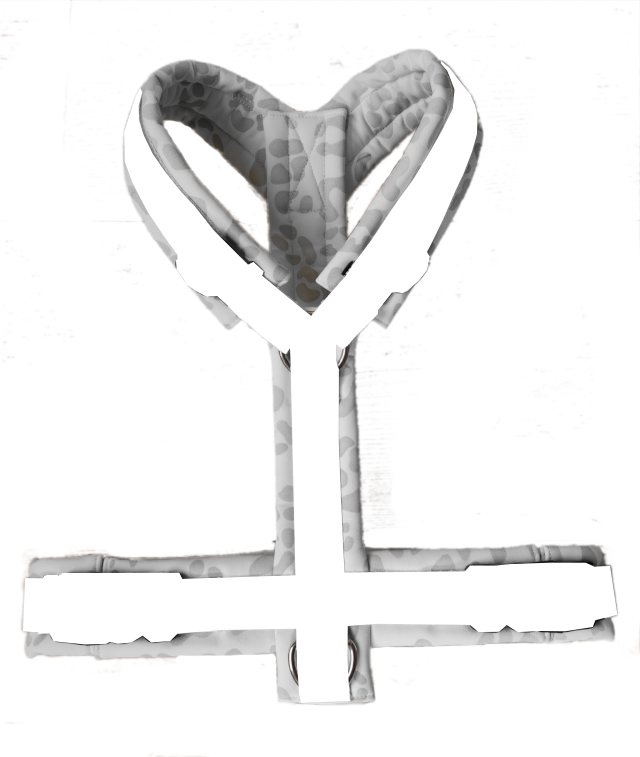
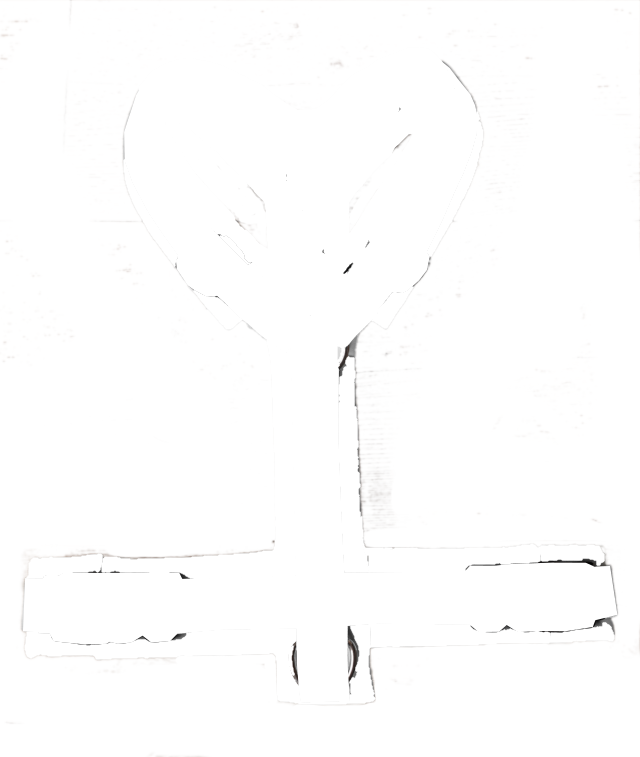
first draft of new colors

diff --git a/src/app/app.component.ts b/src/app/app.component.ts
@@ -20,155 +20,10 @@ export class AppComponent {
     this.config.imageLink2 = image[0];
     this.pickedColor = image[1];
   }
+  colors2: [string, string][] = ['christmas-2', 'christmas', 'clouds', 'knots', "knots2","knots3","knots4",  'mosaik', 'mosaik2', 'snowflakes', 'stars'].map(s => [`/assets/colors2/${s}.PNG`, s])
   URLSoftShell: [string, string][] = [
-    [
-      'https://image.jimcdn.com/app/cms/image/transf/dimension=1920x400:format=jpg/path/sdd37b24955066016/image/iddb1bee841bd3645/version/1727506261/image.jpg',
-      'Neon Grün',
-    ],
-    [
-      'https://image.jimcdn.com/app/cms/image/transf/dimension=1920x400:format=jpg/path/sdd37b24955066016/image/i905903e93db72608/version/1741674999/image.jpg',
-      'Neon Pink',
-    ],
-    [
-      'https://image.jimcdn.com/app/cms/image/transf/dimension=1920x400:format=jpg/path/sdd37b24955066016/image/i254d6489e9f1006f/version/1741674999/image.jpg',
-      'Leo reflektierend Schwarz',
-    ],
-    [
-      'https://image.jimcdn.com/app/cms/image/transf/dimension=1920x400:format=jpg/path/sdd37b24955066016/image/icb84a24cbb695b43/version/1741674999/image.jpg',
-      'Leo reflektierend neon Gelb',
-    ],
-    [
-      'https://image.jimcdn.com/app/cms/image/transf/dimension=1920x400:format=jpg/path/sdd37b24955066016/image/i1f731c614db29f29/version/1741674999/image.jpg',
-      'Leo reflektierend neon orange',
-    ],
-    [
-      'https://image.jimcdn.com/app/cms/image/transf/dimension=1920x400:format=jpg/path/sdd37b24955066016/image/i64cd10887771a7d6/version/1741674999/image.jpg',
-      'Leo reflektierend neon Pink',
-    ],
-    [
-      'https://image.jimcdn.com/app/cms/image/transf/dimension=1920x400:format=jpg/path/sdd37b24955066016/image/i43acd960620eb922/version/1741675021/image.jpg',
-      'Schneehimmel',
-    ],
-    [
-      'https://image.jimcdn.com/app/cms/image/transf/dimension=1920x400:format=jpg/path/sdd37b24955066016/image/i4201d1447f638724/version/1741675021/image.jpg',
-      'Blumen Hexagon',
-    ],
-    [
-      'https://image.jimcdn.com/app/cms/image/transf/dimension=1920x400:format=jpg/path/sdd37b24955066016/image/i2e25e0a40df215b1/version/1741675021/image.jpg',
-      'Blumenmotiv rot',
-    ],
-    [
-      'https://image.jimcdn.com/app/cms/image/transf/dimension=1920x400:format=jpg/path/sdd37b24955066016/image/i9c9b5f76f29aa50c/version/1741675021/image.jpg',
-      'Eisige Garten',
-    ],
-    [
-      'https://image.jimcdn.com/app/cms/image/transf/dimension=1920x400:format=jpg/path/sdd37b24955066016/image/i063018a905308263/version/1741675021/image.jpg',
-      'Alcohol Pastell-Kolibri',
-    ],
-    [
-      'https://image.jimcdn.com/app/cms/image/transf/dimension=1920x400:format=jpg/path/sdd37b24955066016/image/if11bb4cd96348f3a/version/1741675021/image.jpg',
-      'Kleckse Grün',
-    ],
-    [
-      'https://image.jimcdn.com/app/cms/image/transf/dimension=1920x400:format=jpg/path/sdd37b24955066016/image/i32a9fb5e0cddf68a/version/1741675021/image.jpg',
-      'Magnolien Rosa',
-    ],
-    [
-      'https://image.jimcdn.com/app/cms/image/transf/dimension=1920x400:format=jpg/path/sdd37b24955066016/image/i28e236dd4d2788a6/version/1741675021/image.jpg',
-      'Very Pery Glitter',
-    ],
-    [
-      'https://image.jimcdn.com/app/cms/image/transf/dimension=1920x400:format=jpg/path/sdd37b24955066016/image/i45f09f6d32541e0a/version/1741675021/image.jpg',
-      'Nachgarten nave',
-    ],
-    [
-      'https://image.jimcdn.com/app/cms/image/transf/dimension=1920x400:format=jpg/path/sdd37b24955066016/image/i9bdfafd78024f008/version/1741675021/image.jpg',
-      'Pfoten pink',
-    ],
-    [
-      'https://image.jimcdn.com/app/cms/image/transf/dimension=1920x400:format=jpg/path/sdd37b24955066016/image/i8b7c459beb43b329/version/1741675021/image.jpg',
-      'Morocco Pink',
-    ],
-    [
-      'https://image.jimcdn.com/app/cms/image/transf/dimension=1920x400:format=jpg/path/sdd37b24955066016/image/idf0dc5ca3199459d/version/1741675011/image.jpg',
-      'Comic blau-rot',
-    ],
-    [
-      'https://image.jimcdn.com/app/cms/image/transf/dimension=1920x400:format=jpg/path/sdd37b24955066016/image/i84564f281f423de1/version/1741675011/image.jpg',
-      'Gold-schwarze Kolibri',
-    ],
-    [
-      'https://image.jimcdn.com/app/cms/image/transf/dimension=1920x400:format=jpg/path/sdd37b24955066016/image/i7b05a8ba3be68970/version/1741675011/image.jpg',
-      'Gold-schwarze Schmetterlinge',
-    ],
-    [
-      'https://image.jimcdn.com/app/cms/image/transf/dimension=1920x400:format=jpg/path/sdd37b24955066016/image/i8a4820e983149d6f/version/1741675011/image.jpg',
-      'Totenköpfe Bunt',
-    ],
-    [
-      'https://image.jimcdn.com/app/cms/image/transf/dimension=1920x400:format=jpg/path/sdd37b24955066016/image/id64a43496fe85bc7/version/1741675011/image.jpg',
-      'Flora 3D Effekt ',
-    ],
-    [
-      'https://image.jimcdn.com/app/cms/image/transf/dimension=1920x400:format=jpg/path/sdd37b24955066016/image/i14892104049571c9/version/1741675011/image.jpg',
-      'Farnblätter',
-    ],
-    [
-      'https://image.jimcdn.com/app/cms/image/transf/dimension=1920x400:format=jpg/path/sdd37b24955066016/image/i06ea41436453df5a/version/1741675011/image.jpg',
-      'Schiefer',
-    ],
-    [
-      'https://image.jimcdn.com/app/cms/image/transf/dimension=1920x400:format=jpg/path/sdd37b24955066016/image/i8d636047588d6a41/version/1741675011/image.jpg',
-      'Mhendi 2.0',
-    ],
-    [
-      'https://image.jimcdn.com/app/cms/image/transf/dimension=1920x400:format=jpg/path/sdd37b24955066016/image/i7ac4eb85a1f02920/version/1741675011/image.jpg',
-      'Galaxy Sky',
-    ],
-    [
-      'https://image.jimcdn.com/app/cms/image/transf/dimension=1920x400:format=jpg/path/sdd37b24955066016/image/ie7eb36bdf2758001/version/1741675011/image.jpg',
-      'Geometric Galaxy türkisblau',
-    ],
-    [
-      'https://image.jimcdn.com/app/cms/image/transf/dimension=1920x400:format=jpg/path/sdd37b24955066016/image/i8237893125d05240/version/1741675011/image.jpg',
-      'Geometric Galaxy grünbeige',
-    ],
-    [
-      'https://image.jimcdn.com/app/cms/image/transf/dimension=1920x400:format=jpg/path/sdd37b24955066016/image/i94eb594a5141e865/version/1741675011/image.jpg',
-      'Weisse Federn',
-    ],
-    [
-      'https://image.jimcdn.com/app/cms/image/transf/dimension=1920x400:format=jpg/path/sdd37b24955066016/image/i458593a0d1383e51/version/1741675011/image.jpg',
-      'Sleepy hollow',
-    ],
-    [
-      'https://image.jimcdn.com/app/cms/image/transf/dimension=1920x400:format=jpg/path/sdd37b24955066016/image/ieb5a202a1de3e284/version/1741675011/image.jpg',
-      'Spooky night',
-    ],
-    [
-      'https://image.jimcdn.com/app/cms/image/transf/dimension=1920x400:format=jpg/path/sdd37b24955066016/image/i04e5deab6b57bed4/version/1741675004/image.jpg',
-      'X-mas socks ',
-    ],
-    [
-      'https://image.jimcdn.com/app/cms/image/transf/dimension=1920x400:format=jpg/path/sdd37b24955066016/image/i493b70f0c5d0b9bd/version/1741675004/image.jpg',
-      'Goldene Hirsche',
-    ],
-    [
-      'https://image.jimcdn.com/app/cms/image/transf/dimension=1920x400:format=jpg/path/sdd37b24955066016/image/i65d4eb12133481ac/version/1745490437/image.jpg',
-      'Jeans gold Sterne',
-    ],
-    [
-      'https://image.jimcdn.com/app/cms/image/transf/dimension=1920x400:format=jpg/path/sdd37b24955066016/image/i42b882beaf734808/version/1745490437/image.jpg',
-      'Vintage Jeans marine',
-    ],
-    [
-      'https://image.jimcdn.com/app/cms/image/transf/dimension=1920x400:format=jpg/path/sdd37b24955066016/image/i95b295aaebbdb9ef/version/1745490437/image.jpg',
-      'Vintage Jeans Violet',
-    ],
-    [
-      'https://image.jimcdn.com/app/cms/image/transf/dimension=1920x400:format=jpg/path/sdd37b24955066016/image/ibf0e2fc2705f0b86/version/1745490437/image.jpg',
-      'Jeans blau Sterne',
-    ],
+    ...this.colors2,
+    
   ];
   private colorCodes = [
     ['rgb(216,255,0)', 'Neon Gelb'],

diff --git a/src/app/app.component.html b/src/app/app.component.html
@@ -1,15 +1,22 @@
 <div class="main">
   <h1>Configurator</h1>
-  <app-svg-display [svgConfig]="config"></app-svg-display>
+  <section style="display:flex; flex-direction: row; ">
+    <div>
+      <h2>Produkt</h2>
+      <app-svg-display [svgConfig]="config"></app-svg-display>
+    </div>
+    <div>
+      <h2>Softshell: {{ pickedSoftshell }}</h2>
+      <app-controls
+        [imageURLs]="URLSoftShell"
+        (eventEmitter)="changeCircle($event)"
+      ></app-controls>
+      <h2>Gurtband: {{ pickedColor }}</h2>
+      <app-controls
+        [imageURLs]="URLGurtband"
+        (eventEmitter)="changeRect($event)"
+      ></app-controls>
+    </div>
+  </section>
   <p></p>
-  <h2>Softshell: {{ pickedSoftshell }}</h2>
-  <app-controls
-    [imageURLs]="URLSoftShell"
-    (eventEmitter)="changeCircle($event)"
-  ></app-controls>
-  <h2>Gurtband: {{ pickedColor }}</h2>
-  <app-controls
-    [imageURLs]="URLGurtband"
-    (eventEmitter)="changeRect($event)"
-  ></app-controls>
 </div>
